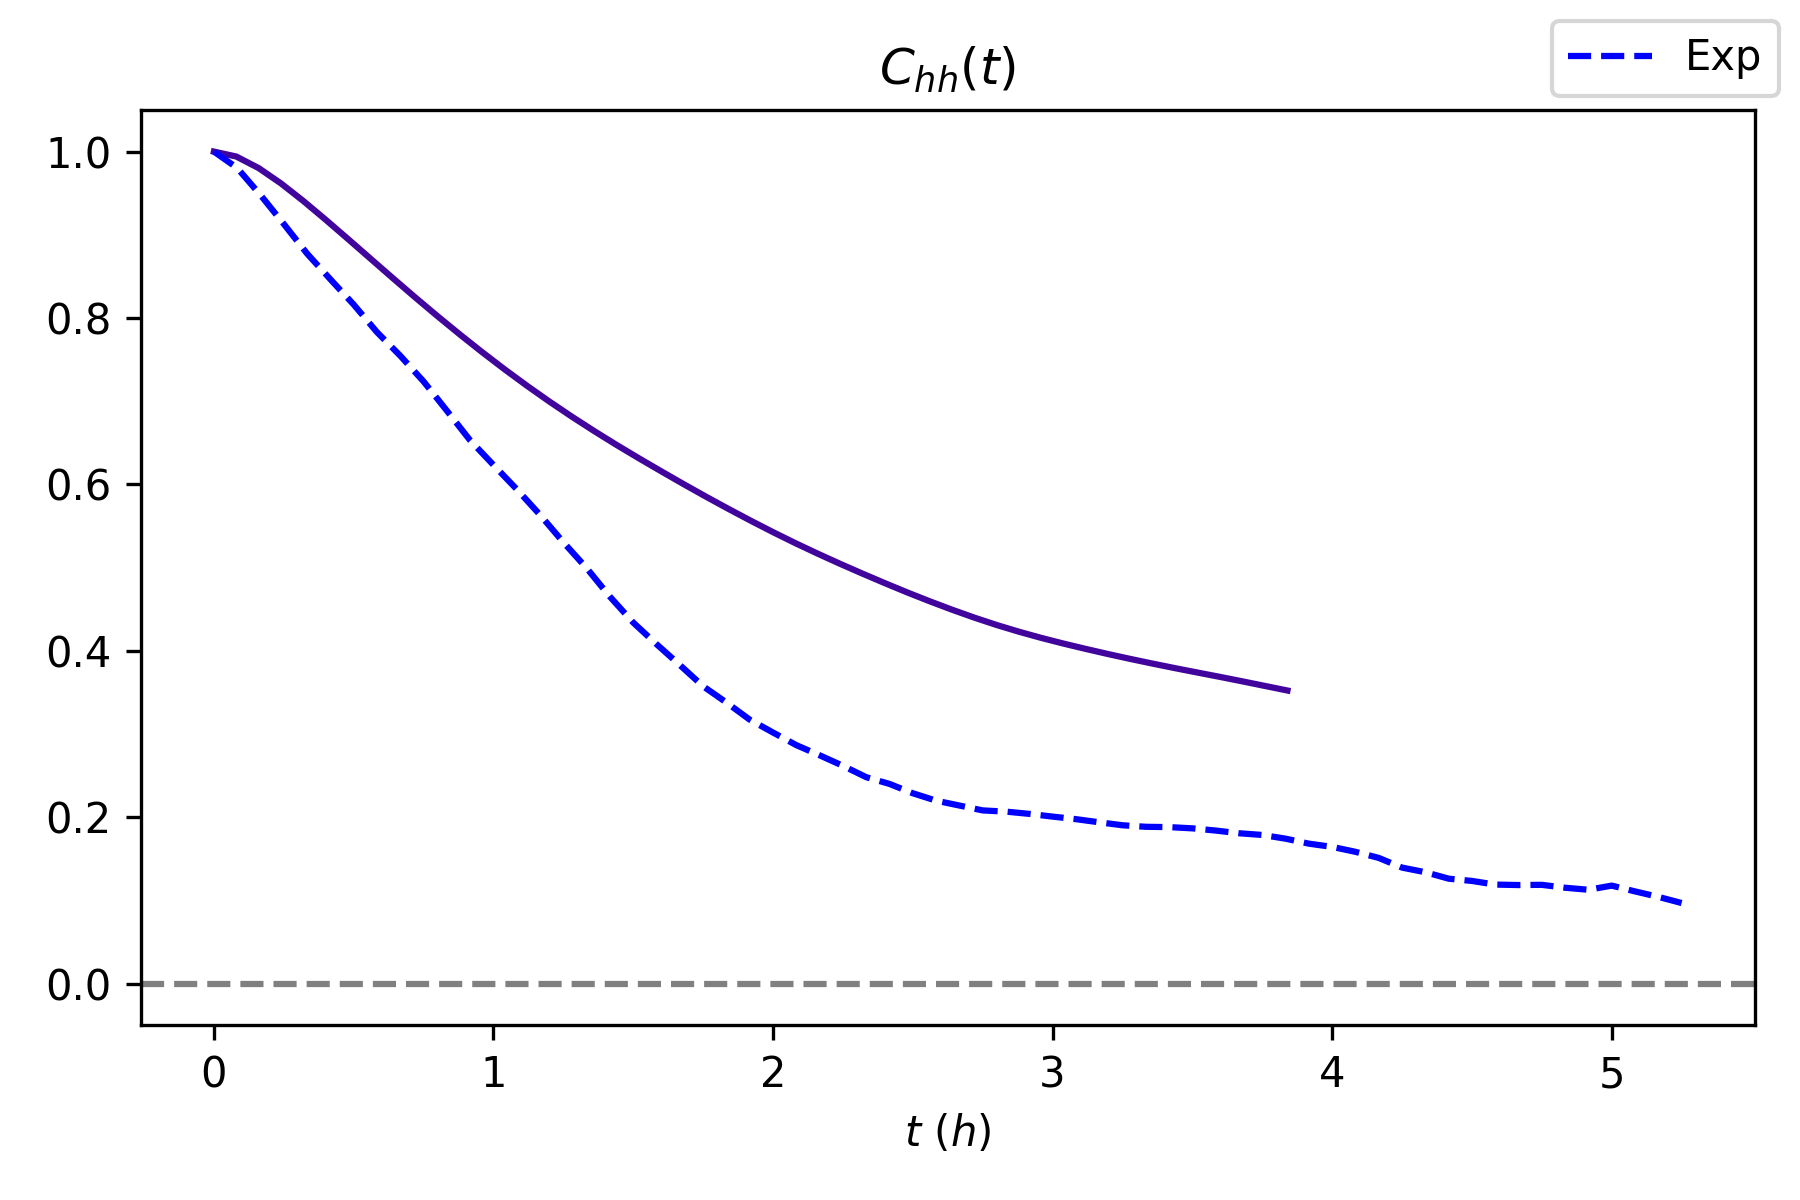
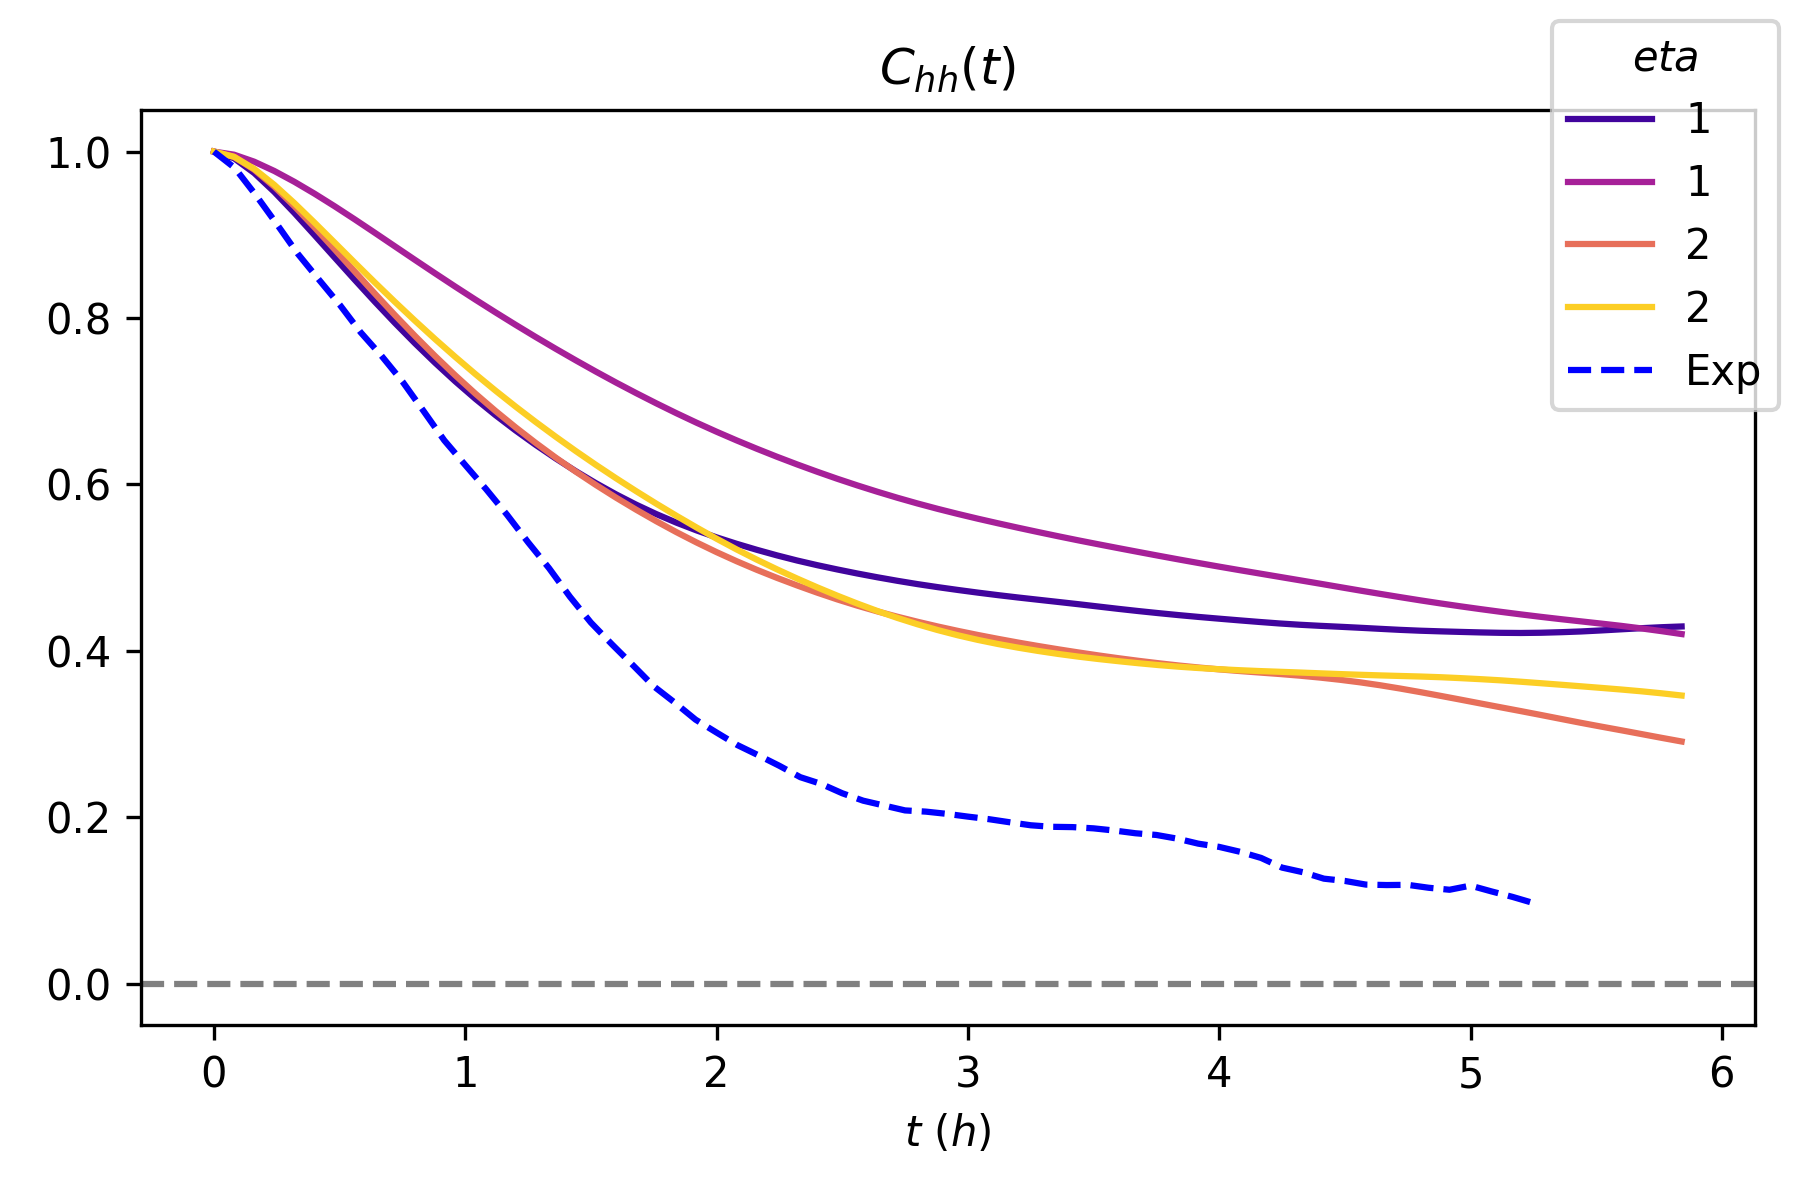
dev

diff --git a/analysis/visualization/compare_correlation_to_experiment.py b/analysis/visualization/compare_correlation_to_experiment.py
@@ -45,6 +45,7 @@ density = 1900
 
 # Add experimental data
 dataset = "holomonitor_20240301_B1-4"
+#dataset = "holomonitor_20240319_A1-9"
 
 cellprop = SegmentationData()
 cellprop.load(f"data/experimental/processed/{dataset}/cell_props.p")
@@ -98,6 +99,8 @@ else:
     #                  alpha=0.5, color="b")
     out_path = f"{fig_dir}temporal_autocorrelation_{args.param}.png"
 
-fig.legend()
+
+if args.legend != '':
+    fig.legend(title=rf'${args.legend}$')
 fig.tight_layout()
 fig.savefig(out_path)
